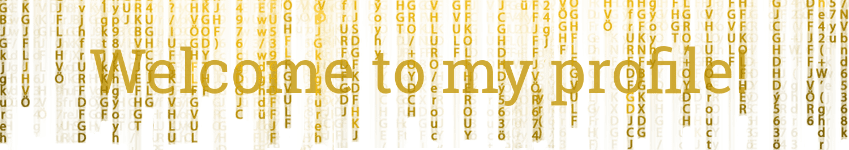
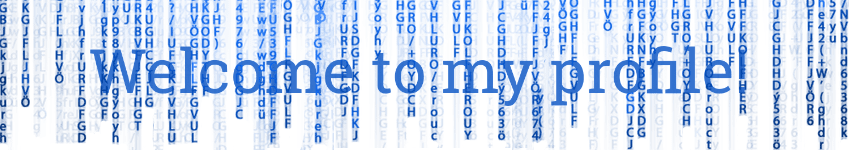
.

diff --git a/README.md b/README.md
@@ -3,7 +3,7 @@
 </p>
 
 <p align="center">
-  <a href="https://git.io/typing-svg"><img src="https://readme-typing-svg.herokuapp.com?font=Metamorphous&duration=2500&pause=500&color=D4B52C&center=true&vCenter=true&width=435&lines=Abhishek+Dewangan;Front-End+Developer" alt="Typing SVG" /></a>
+  <a href="https://git.io/typing-svg"><img src="https://readme-typing-svg.herokuapp.com?font=Metamorphous&duration=2500&pause=500&color=23ADDBFF&center=true&vCenter=true&width=435&lines=Abhishek+Dewangan;Front-End+Developer" alt="Typing SVG" /></a>
 </p>
 
 <p align="center">
